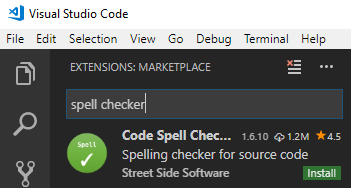
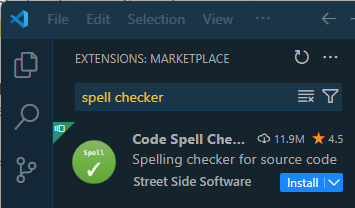
Updated VSCode Tips

diff --git a/VSCodeTips/README.md b/VSCodeTips/README.md
@@ -6,7 +6,11 @@ Download and install the appropriate version of VSCode for your operating system
 
 ## Some useful extensions
 
-VSCode can be extended with _extensions_. There are four that we recommend you install from day 1.
+VSCode can be extended with _extensions_.
+
+> There are many extensions available that you could possibly install. Browsing through the long list of the VSCode Extensions Marketplace might make you feel like a child in a candy store, with all this free stuff ready for the taking. However, we urge you to resist the temptation and just install the extensions recommended below. Other extensions may interfere with the essential ones recommended here. Once you gain more experience you may choose to install additional ones, but in all cases you should only do so when you have an immediate, identifiable use case for each one.  
+
+There are four extension that we recommend you install from day 1.
 
 1. **Code Spell Checker**. We fully understand that you guys sometimes have difficulty with the correct English spelling when choosing names for variables and functions in your JavaScript programs. That is nothing to be ashamed of, but why not get some help from a handy extension?
 
@@ -18,7 +22,7 @@ VSCode can be extended with _extensions_. There are four that we recommend you i
 
 4. **Live Server**. Launch a development local Server with live reload feature for static & dynamic pages.
 
-### Installation instructions
+### VSCode Setup Instructions
 
 1. Start up VSCode.
 
@@ -26,23 +30,23 @@ VSCode can be extended with _extensions_. There are four that we recommend you i
 
    ![Extensions Icon](assets/extensions-icon.png)
 
-3. In the input field in the upper left corner, type `code spell checker` as pictured here:
+3. In the input field in the upper left corner, type `spell checker` as pictured here:
 
    ![Spell checker extension](assets/spell-checker.png)
 
-4. Press the green `install` button of **Code Spellchecker**.
+4. Press the `Install` button of **Code Spell Checker**.
 
 5. Install the remaining extensions by repeating steps 3 and 4, by typing the names of the extensions:
 
-   - ESLint
-   - Prettier - Code formatter
-   - Live Server
+   - **ESLint**
+   - **Prettier - Code formatter**
+   - **Live Server**
 
-6. When the final extension has finished installing you will notice that the green `install` button changes to a blue `reload` button. Press this button to reload VSCode and activate the newly installed extensions.
-7. You now need to install a global Node package to support ESLint. Open a terminal window in VSCode by selecting **View**, **Integrated Terminal** from the menu bar.
-8. A terminal window opens in the lower half of the VSCode window. In this window, type the command below (on Linux and MacOS systems you may need to prefix this command with `sudo`, e.g. `sudo npm ...`):
+6. You now need to install a global Node package to support ESLint. Open a terminal window in VSCode by selecting **View**, **Integrated Terminal** from the menu bar.
 
-   ```
+7. A terminal window opens in the lower half of the VSCode window. In this window, type the command below (on Linux and MacOS systems you may need to prefix this command with `sudo`, e.g. `sudo npm ...`):
+
+   ```text
    npm install -g eslint
    ```
 
@@ -50,9 +54,9 @@ VSCode can be extended with _extensions_. There are four that we recommend you i
 
 We recommend that you apply a couple of changes to the default settings of VSCode to help you create well-formatted JavaScript code. Follow these steps:
 
-1. Press the function key F1 and type the following in the text box:
+1. Press the function key <kbd>F1</kbd> and type the following in the text box:
 
-    ```
+    ```text
     open settings
     ```
 
@@ -60,86 +64,103 @@ We recommend that you apply a couple of changes to the default settings of VSCod
 
    ![settings-panel](assets/settings-panel.png)
 
-2. Select **Preferences Open Settings (JSON)** from the list
+2. Select **Preferences: Open User Settings (JSON)** from the list
 
-5. Copy the content shown below and paste it over (i.e. replace) the existing content.
+3. Copy the content shown below and paste it over (i.e. replace) the existing content.
 
-   ```json
-   /// Place your settings in this file to overwrite the default settings
-   {
-     "editor.bracketPairColorization.enabled": true,
-     "editor.detectIndentation": false,
-     "editor.formatOnSave": true,
-     "editor.minimap.enabled": false,
-     "editor.renderIndentGuides": true,
-     "editor.tabSize": 2,
-     "editor.codeActionsOnSave": {
-       "source.fixAll": true
-     },
-     "eslint.autoFixOnSave": true,
-     "files.autoSave": "onFocusChange",
-     "prettier.singleQuote": true,
-     "prettier.trailingComma": "all"
-   }
-   ```
+    ```json
+    /// Place your settings in this file to overwrite the default settings
+    {
+      "editor.detectIndentation": false,
+      "editor.formatOnSave": true,
+      "editor.minimap.enabled": false,
+      "editor.tabSize": 2,
+      "editor.codeActionsOnSave": {
+        "source.fixAll": "explicit"
+      },
+      "files.autoSave": "onFocusChange",
+      "prettier.trailingComma": "es5",
+      "editor.defaultFormatter": "esbenp.prettier-vscode",
+      "[javascript]": {
+        // override possible JavaScript specific user setting
+        "editor.defaultFormatter": "esbenp.prettier-vscode"
+      },
+      "editor.bracketPairColorization.enabled": true,
+      "editor.guides.bracketPairs": true,
+      "editor.guides.highlightActiveIndentation": true,
+      "editor.guides.bracketPairsHorizontal": "active"
+    }
+    ```
 
-6. Close the Settings tabs.
+4. Close the Settings tabs.
 
 ## Configuring the Default Shell (Windows users only)
 
 By default, a VSCode installation on Window uses **PowerShell** for the Integrated Terminal. To change this to **Git Bash**, follow these steps:
 
-1. Press the key combination **Ctrl-Shift-p** to open the VSCode Command Pallette.
+1. Press the key combination <kbd>F1</kbd> to open the VSCode Command Pallette.
 2. Type the words: `select default`
-3. From the drop-down menu, select **Terminal: Select Default Shell**
+3. From the drop-down menu, select **Terminal: Select Default Profile**
 4. A new drop-down menu will appear. From this menu, select **Git Bash**.
 
-## Using VSCode for your homework
+## Using VSCode
 
-You’ll get the most out of VSCode if you organise your work in folders, say a folder for each week in the JavaScript module.
+You’ll get the most out of VSCode if you organise your work in **project folders**.
 
-(Later in the course you will be “cloning” Git repositories into local folders as the basis for your homework or projects.)
+Later in the course you will be “cloning” Git repositories into local folders as the basis for your homework or projects. But for now, if you do not yet have a project folder you should create one first.
 
-To start work with VSCode in particular folder, start VSCode and open the relevant folder: from the menu, select **File**, **Open Folder**. VSCode will now open this folder to be your "project folder", until you close VSCode or open another folder.
+A nice way to organise your project folders is to create a parent folder where you will keep all project folders. For instance, you could create a `hackyourfuture` folder in your home directory to serve as the parent directory. Then, inside that parent directory, create a project folder, say `my-first-project`.
 
-> Make it a habit in VSCode to always open the **folder** that contains the project you are working on, rather than individual files in that folder.
+> Note: Do not use spaces in file and folder names. Names with spaces often require special treatment ("quoting") when referring to them in the command line and this is best avoided.
 
-In the figure below the folder named `JavaScript2` was opened in VSCode. The directory tree for that folder in shown in the **Explorer** panel. The folder name `JAVASCRIPT2` is displayed in uppercase in the title bar of the directory tree panel.
+Once you have created the project folder you have two options to open VSCode. If you are on the command line you can `cd` to your project folder and type the command:
+
+```text
+code .
+```
+
+Alternatively, you can first open VSCode application and then use the **Open Folder** button or the **File, Open Folder...** menu command to open the project folder.
 
 ![Open folder in VSCode](./assets/open-folder.png)
 
-## Creating your JavaScript file
+> Make it a habit in VSCode to always open the main folder that contains the project you are working on, rather than individual files or subfolders inside that folder.
 
-You are now ready to start adding your first JavaScript file.
+In the figure below the folder named `my-first-project` was opened in VSCode. The directory tree (still empty) for that folder in shown in the **Explorer** panel. The folder name `MY-FIRST-PROJECT` is displayed in uppercase in the title bar of the directory tree panel.
 
-1. Open the folder where you will keep your working files, for instance `hyf-javascript1`.
-2. Right-click in an empty space in the `EXPLORER` window and select **New File** from the context menu. You will see the following:
+![New folder in VSCode](./assets/empty-project-folder.png)
 
-   ![New file](./assets/new-file.png)
+## Creating a new HTML file
 
-3. Type a file name in the edit box, e.g. `app.js` and press **Enter**. This will add a file `apps.js` to your working folder and open an editor tab for the newly created file.
+You are now ready to start adding your first HTML file.
 
-   ![Edit file](./assets/edit-file.png)
+1. Open the folder where you will keep your working files, for instance `my-first-project`.
 
-5) Start typing your JavaScript code in the new file.
+2. Right-click in an empty space in the `EXPLORER` window and select **New File** from the context menu, or alternatively, click on the `New File...` button as shown in the screen animation below. Then, type the name of the file, `index.html` and press <kbd>Enter</kbd>.
 
-   ![Hello world](./assets/hello-world.png)
+   ![create-html](./assets/create-html.gif)
 
-6) You can also create subfolders in `EXPLORER` panel. Right-click in an empty space in the `EXPLORER` window and select **New Folder** from the context menu, for instance `week1`.
+   As can be seen in the animation, you can quickly create a skeleton HTML file by typing an exclamation mark followed by pressing the <kbd>Tab</kbd> key.
 
-   ![New folder](./assets/new-folder.png)
+3. To complete the files for your first project, create an `index.js` to contain your JavaScript code. A simple file with rudimentary DOM manipulation might look like this:
 
-7) To create a new file in the subfolder, right-click on the subfolder and type a file name in the input box.
+    ![index-js](./assets/index-js.png)
 
-   ![New file in subfolder](./assets/new-file-in-folder.png)
+4. To try it out in a browser, right click on the `index.html` file in the `EXPLORER` window and select the **Open with Live Server** menu option.
 
-8) Be on the watch out for coloured wavy underlines in your code. These are warnings from either ESLint or the Spell Checker that something might be wrong. If you see such wavy underlines, hover your mouse pointer over the underlined text and a tooltip will appear that explains what might be wrong.
-9) You can also open the "problem" panel by selecting **View**, **Problems** from the menu to see any problems identified.
-10) Pay attention also to the lower left part of the VSCode window, i.e. the status bar. It gives an indication of the number of errors and warnings issued. In the picture below there are zero errors, 7 warnings (usually from ESLint) and 14 informational messages (usually from the spell checker).
+Notes:
 
-    ![Figure 4. Error, warning and message indicators](assets/status-bar.png)
+- Be on the watch out for coloured squiggly underlines in your code. These are warnings from either **ESLint** or the **Spell Checker** that something might be wrong. If you see such squiggly underlines, hover your mouse pointer over the underlined text and a tooltip will appear that explains what might be wrong.
 
-## Some useful short-cut commands
+- You can also open the `PROBLEM` panel by selecting **View**, **Problems** from the menu to inspect the reported problems, if any.
+
+- The left-hand part of the VSCode status bar gives an indication of the number of errors and warnings issued.
+
+    | Symbol | Meaning  |
+    |:------:|----------|
+    | ⨂ _n_ | Number of errors |
+    | ⚠ _n_ | Number of warnings |
+
+## Some Useful Short-Cut Commands
 
 In the previous section we frequently referred you to the menu bar to select commands. As you get more proficient with VSCode you may want to inspect these menus a little closer and take note of the short-cut commands listed in their right margin. For example, the short-cut command for **File**, **New** is listed as Ctrl+N (press `Ctrl` and `N` keys simultaneously) on a Windows or Linux PC and ⌘N on a Mac.
 
@@ -165,32 +186,16 @@ Here are some short-cut commands that you will use many times a day and that we 
   ![Figure 5. Search and Replace](assets/search-and-replace.png)
 
   - The `Aa` button activates the **Match Case** option.
-  - The `Ab|` button matches **Whole Words Only**.
+  - The <u>`ab`</u> button matches **Whole Words Only**.
   - The `.*` button allow you to search using _regular expressions_, which you may encounter in later modules as an advanced JavaScript programming topic.
-  - The `c-b` button next to the second input field replaces the next occurrence of the matched text.
-  - The `ab-ac` button replaces **all** occurrences of the matched text.
-  - The left and right arrows move the cursor to the previous and next match.
+  - The `b-C` button next to the second input field replaces the next occurrence of the matched text.
+  - The adjacent `ab-BC` button replaces **all** occurrences of the matched text.
+  - The up and down arrows move the cursor to the previous and next match.
   - To get rid of the pop-up press `Esc` or press the `x` button.
 
 - **Rename Symbol**. This command renames all occurrences of a JavaScript variable or function name. To do so, move the text cursor to the variable or function name and press F2. A small pop-up window will appear in which you can type a new name. Press Enter to finalise the change or Esc to cancel it.
 
 - **Open an Integrated Terminal window**. We already covered this when we mentioned the **View**, **Integrated Terminal** menu command.
-
-## Running and debugging your code with the VSCode Node debugger
-
-If your JavaScript program is contained in a single file the easiest way to run and examine your code is the start straight in VSCode.
-
-1. Press the F5 function key to start the VSCode debugger.
-
-2. You will prompted to select an environment. Choose `Node.js` as show below.
-
-   ![debug_3](assets/node-debug.png)
-
-This starts your program in the VSCode debugger.
-
-### Placing break points and inspecting variables
-
-This is covered in class.
 
 ### Further information
 
